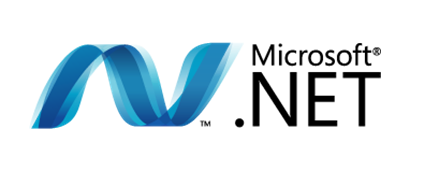
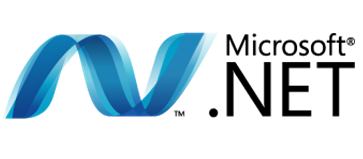
resized images for skills

Changed region(s): [[0.0, 0.2013, 1.0, 0.7547]]

diff --git a/index.html b/index.html
@@ -72,7 +72,7 @@
           <a href="https://www.linkedin.com/pub/daniel-cossins/108/586/80a"><img class="contactBtn" src="sources/Linkedin.jpg"></a>
         </div>
 
-        <div class="animated" id="skillspgMain" style="font-size: 20px;">
+        <div class="animated noSelect" id="skillspgMain" style="font-size: 20px;">
           <div class="middle skillsDiv">
             <h2>front-end</h2>
             HTML5<br>
@@ -91,7 +91,7 @@
           </div>
           <div class="middle skillsDiv">
             <h2>back-end</h2>
-            C#<br>
+            <!-- C#<br>
             Visual Studio<br>
             .NET<br>
             SQL<br>
@@ -99,7 +99,11 @@
             <br>
             <br>
             <br>
-            <br>
+            <br> -->
+            <img src="sources/Csharp.png" class="skillsImg"><br>
+            <img src="sources/visualstudio.png" class="skillsImg"><br>
+            <img src="sources/.NET.png" class="skillsImg"><br>
+            <img src="sources/SQL.png" class="skillsImg"><br>
           </div>
           <div class="middle skillsDiv">
             <h2>General</h2>

diff --git a/styles/style.css b/styles/style.css
@@ -127,7 +127,7 @@ body{
 /*SKILLS*/
 .skillsDiv{
   display: inline-block;
-  width: 20%;
+  width: 23%;
   border: 4px solid black;
   border-radius: 20px;
   margin-top: 20px;
@@ -138,6 +138,9 @@ body{
 .skillsImg{
   /*width: 150px;*/
   max-height: 100px;
+  /*min-width: 100px;*/
+  max-width: 180px;
+  /*width: 10%;*/
 }
 
 
